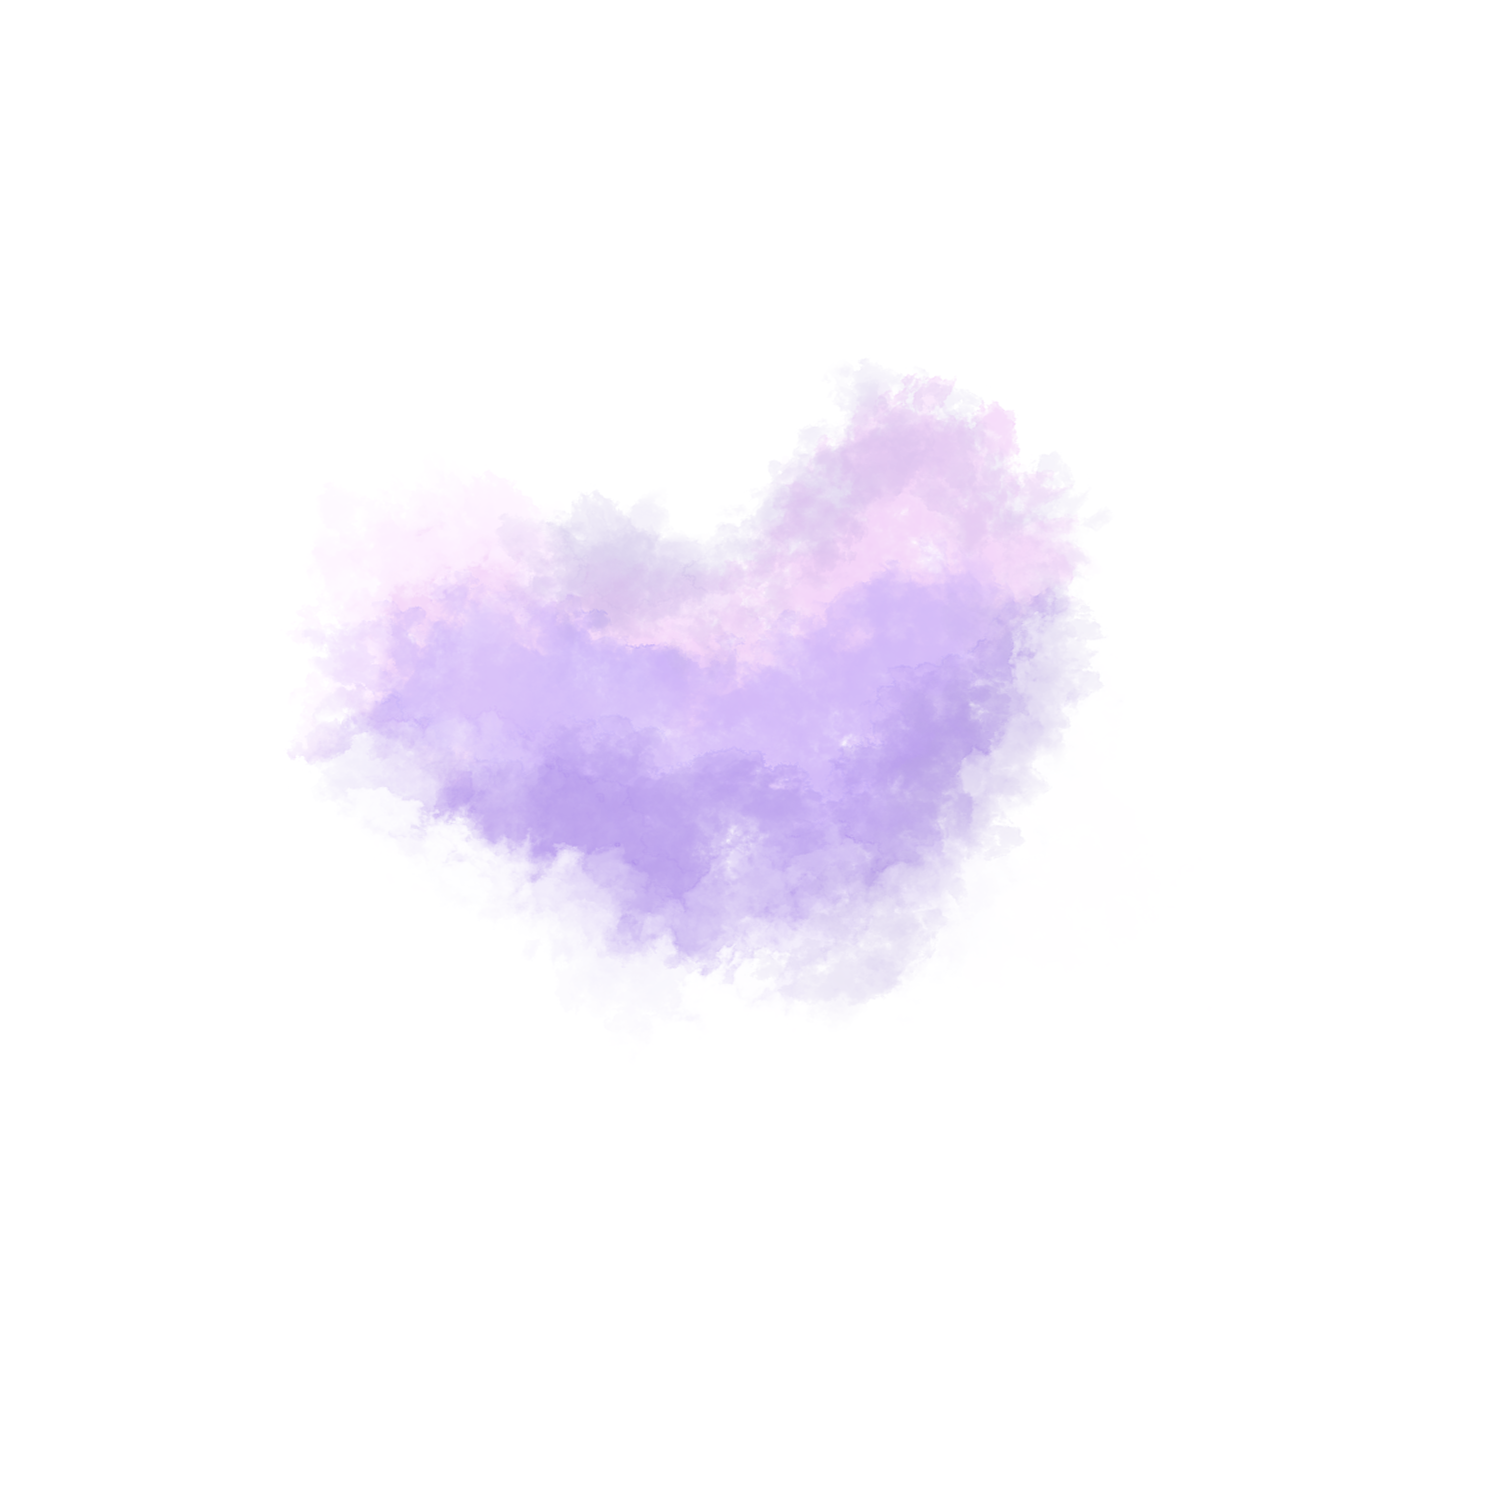
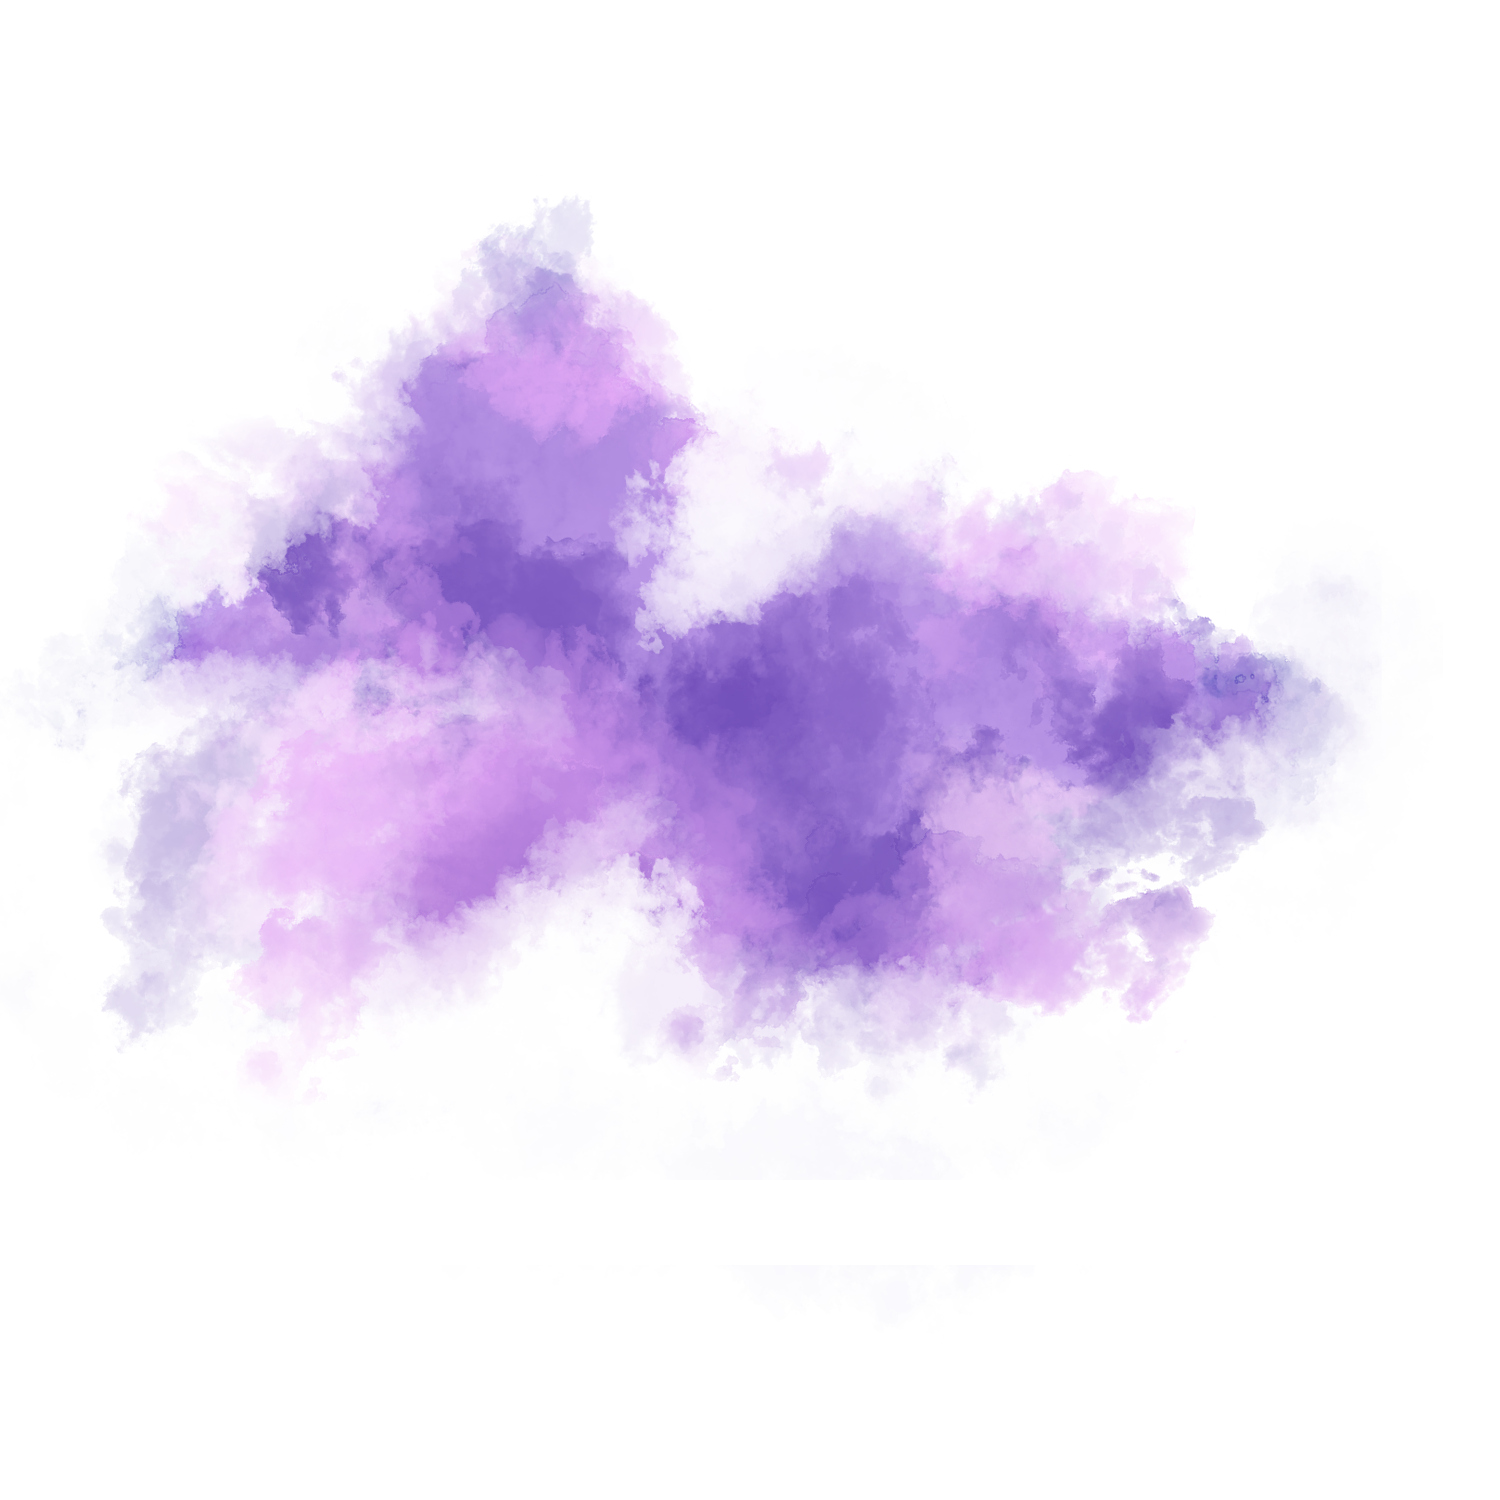
se arreglo el overflow del body, se agrgaron animaciones a la nube

Changed region(s): [[0.0613, 0.1227, 0.92, 0.7053]]

diff --git a/nuevoIndex.html b/nuevoIndex.html
@@ -5,7 +5,7 @@
     <meta charset="UTF-8">
     <meta name="viewport" content="width=device-width, initial-scale=1.0">
 
-    <title>Portafolio</title>
+    <title>Portafolio fake</title>
 
     <link rel="preconnect" href="https://fonts.googleapis.com">
     <link rel="preconnect" href="https://fonts.gstatic.com" crossorigin>
@@ -13,7 +13,7 @@
         href="https://fonts.googleapis.com/css2?family=Montserrat:ital,wght@0,100..900;1,100..900&family=Source+Code+Pro:ital,wght@0,200..900;1,200..900&display=swap"
         rel="stylesheet">
     <link rel="stylesheet" href="https://cdnjs.cloudflare.com/ajax/libs/animate.css/4.1.1/animate.min.css" />
-    <link href="https://cdn.jsdelivr.net/gh/yesiamrocks/cssanimation.io@1.0.3/cssanimation.min.css" rel="stylesheet">
+
     <script src="https://unpkg.com/boxicons@2.1.4/dist/boxicons.js"></script>
 
 
@@ -37,56 +37,49 @@
     </script>
 
     <link rel="stylesheet" href="style.css">
+    <!-- <link rel="stylesheet" href="style.css"> -->
 </head>
 
-<body class="h-full max-w-full relative  font-montserrat text-white bg-gradient-to-t from-[#5f55de] to-[#001356]">
+<body class="w-full max-w-[100vw] font-montserrat text-white bg-black">
 
 
-    <div class="fixed lg:absolute -top-[20%] w-full min-h-[100vh] max-w-[100vw] ">
-        <img class="relative max-w-xl lg:max-w-4xl top-[0%] animate-[floating_infinite_30s_alternate]"
-            src="img/fondo/nubes/nube 1.png" alt="">
+    <div class="absolute top-0 w-full h-screen max-w-[100vw] overflow-hidden ">
+        <img class="relative max-w-xl lg:max-w-4xl top-[30%] -left-[40%]" src="img/fondo/nubes/nube 1.png" alt="">
     </div>
 
 
-    <div class="fixed lg:absolute top-0 w-full min-h-[100vh] max-w-[100vw] overflow-x-hidden">
-        <img class="relative max-w-xl lg:max-w-4xl top-[30%] left-[50%] animate-[floating_infinite_60s_alternate]"
-            src="img/fondo/nubes/nube 2.png" alt="">
+    <div class="absolute top-0 w-full h-screen max-w-[100vw] overflow-hidden ">
+        <img class="relative max-w-xl lg:max-w-4xl top-[30%] -left-[40%]" src="img/fondo/nubes/nube 2.png" alt="">
     </div>
 
-    <div class="fixed lg:absolute top-0 w-full mt-[30%] min-h-[100vh] max-w-[100vw] overflow-x-hidden">
-        <img class="relative max-w-xl lg:max-w-4xl top-[30%] -left-[0%] animation-nube" src="img/fondo/nubes/nube 3.png"
-            alt="">
+    <div class="absolute top-0 w-full h-screen max-w-[100vw] overflow-hidden ">
+        <img class="relative max-w-xl lg:max-w-4xl top-[30%] -left-[0%]" src="img/fondo/nubes/nube 3.png" alt="">
     </div>
 
-    <div class="fixed w-full min-h-[100vh] max-w-[100vw] overflow-hidden top-0">
-        <img class=" relative -top-[20%] -left-[20%] animation-nube" src="img/fondo/ambiente/aambiente-1.png" alt="">
+    <div class="fixed w-full h-screen max-w-[100vw] overflow-hidden top-0">
+        <img class=" relative -top-[20%] -left-[20%]" src="img/fondo/ambiente/aambiente-1.png" alt="">
     </div>
 
-    <div class="fixed w-full min-h-[100vh] max-w-[100vw] overflow-hidden mt-[90%] top-0"><img
-            class="  relative left-[30%]" src="img/fondo/ambiente/aambiente-2.png" alt=""></div>
-
-
-
-
-    <header class="fixed w-full max-w-[100vw] top-0 z-10">
-        <div
-            class="max-w-xl z-10 mt-5  sticky px-5  lg:px-10 m-auto bg-slate-50/30 rounded-2xl backdrop-blur-md lg:max-w-4xl">
-            <div class=" h-12 flex items-center justify-between m-auto py-2 box-content">
-                <p class="">DulceNev</p>
-                <button
-                    class="flex gap-2 text-backgroundColor bg-primaryColor px-6 py-1 font-bold rounded-md hover:bg-[#f7bcc0]">Descargar
-                    CV <box-icon type='solid' color="#303136" name='download'></box-icon></button>
-            </div>
+    <div class="fixed w-full h-screen max-w-[100vw] overflow-hidden mt-[90%] top-0"><img class="  relative left-[30%]"
+            src="img/fondo/ambiente/aambiente-2.png" alt=""></div>
+    <header class="fixed w-full h-screen max-w-[100vw] top-0"></header>
+    <div
+        class="max-w-xl z-10 mt-5  sticky px-5  lg:px-10 m-auto bg-slate-50/30 rounded-2xl backdrop-blur-md lg:max-w-4xl">
+        <div class=" h-12 flex items-center justify-between m-auto py-2 box-content">
+            <p class="">DulceNev</p>
+            <button
+                class="flex gap-2 text-backgroundColor bg-primaryColor px-6 py-1 font-bold rounded-md hover:bg-[#f7bcc0]">Descargar
+                CV <box-icon type='solid' color="#303136" name='download'></box-icon></button>
         </div>
+    </div>
     </header>
 
-    <!-- <div class="fixed top-0 left-0 w-screen h-screen" id="particles-js"></div> -->
 
-    <main class="max-w-xl mx-auto lg:max-w-4xl mt-[110px] ">
+    <main class="max-w-xl mx-auto lg:max-w-4xl mt-[110px]  ">
 
         <!-- INICIO -->
 
-        <section class="flex flex-col gap-10  items-center lg:flex-row lg:px-10 ">
+        <section class="flex flex-col gap-10  items-center lg:flex-row lg:px-10">
 
 
 
@@ -297,21 +290,10 @@
         </section>
 
     </main>
+    <img class="absolute  w-full object-cover bottom-0" src="img/fondo/fondo.png"></div>
 
 
 
-    <div><img class=" absolute  w-full object-cover -bottom-9" src="img/fondo/fondo.png"></div>
-
-
-    <script src="
-    https://cdn.jsdelivr.net/npm/particles.js@2.0.0/particles.min.js
-    "></script>
-    <script>
-        particlesJS.load('particles-js', 'assets/json/particle.json', function () {
-            console.log('callback - particles.js config loaded');
-        });
-
-    </script>
 </body>
 
 </html>

diff --git a/style.css b/style.css
@@ -36,7 +36,10 @@ background: rgb(238, 174, 202);
 *{
     /* outline: 5px solid red; */
 }
+
 body{
+    background-color: #5f55de;
+    background-image: linear-gradient( #5f55de, #001356);
     /* box-sizing: content-box; */
     /* min-height: 100vh; */
     /* width: 100%; */
@@ -47,7 +50,32 @@ body{
 main > * {
     padding: 1.25rem;
     margin: 2rem auto;
-    backdrop-filter: blur(4px);
+    backdrop-filter: blur(10px);
     background-color: rgba(255, 255, 255, 0.356);
     border-radius: 0.75rem;
+    position: relative;
+    z-index: 1;
+    transition:  all .5s;
+    border: 2px solid transparent;
+}
+main > *:hover {
+    border: 2px solid white;
+    backdrop-filter: blur(40px);
+
+}
+
+.animation-nube {
+    animation: floating infinite 30s alternate
+}
+
+@keyframes floating {
+    0%{
+        transform: translateY(0%);
+    }
+    50% {
+        transform: translate(30%, 1%);
+    }
+    100%{
+        transform: translateY(5%);
+    }
 }
